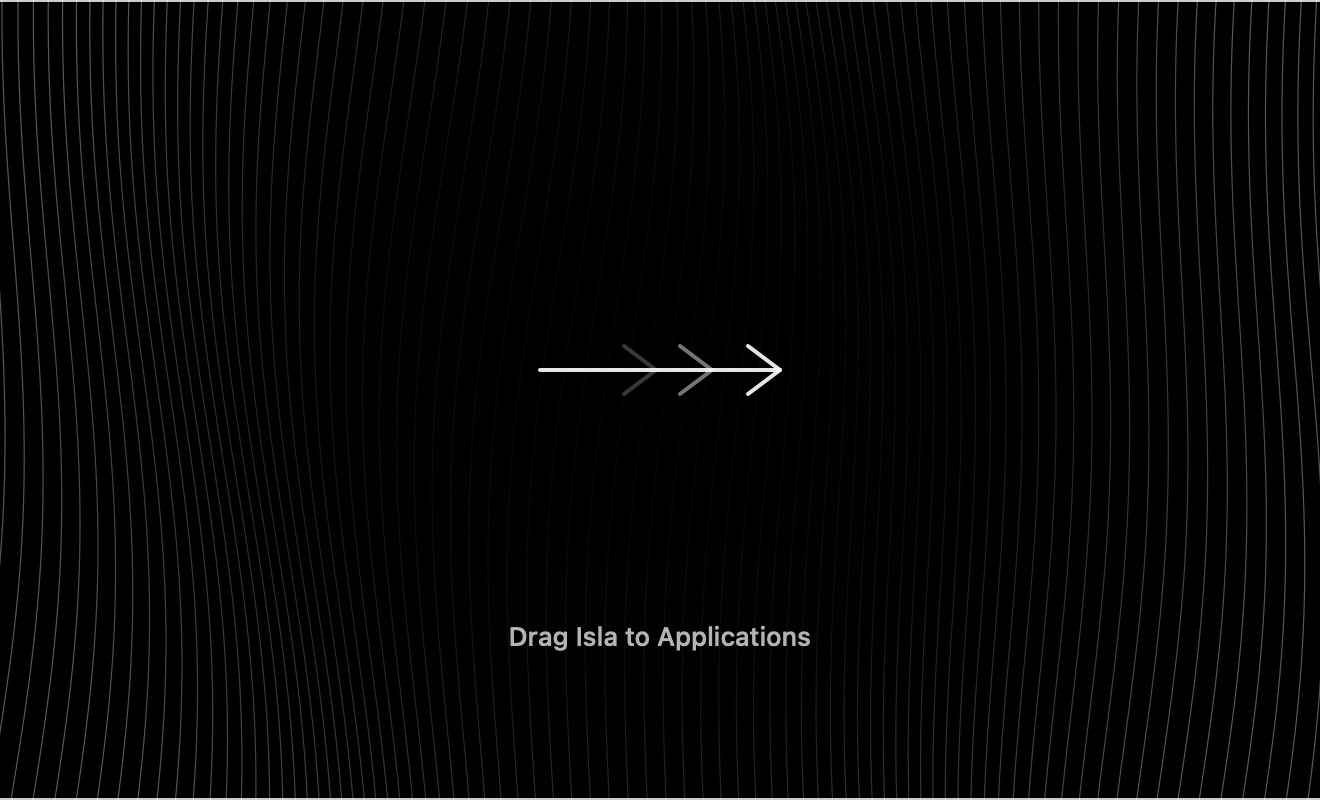
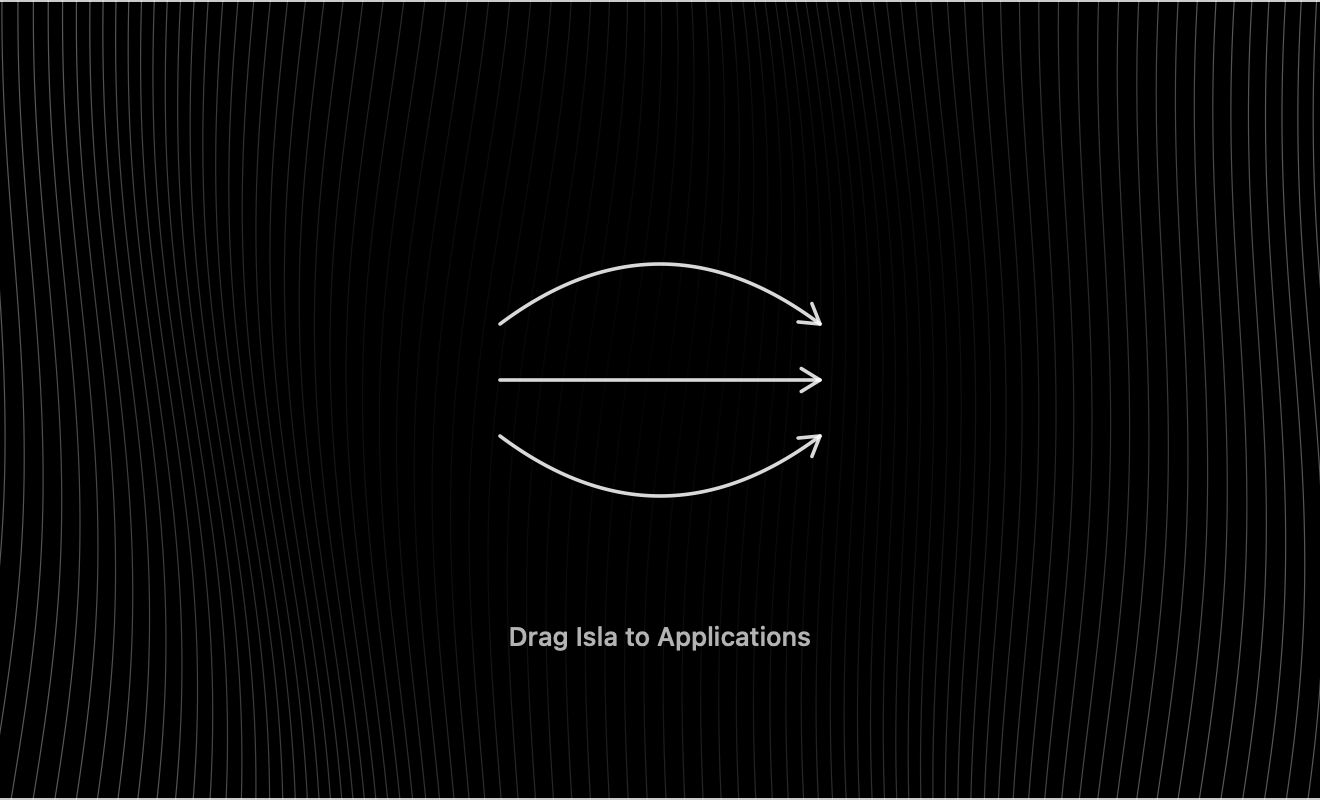
feat: three arrows lead the app to the folder
Owner's direction: one straight through the middle, one arcing over, one
arcing under, all leaving the app's edge and arriving at the folder's, each
head following its curve's tangent. The ghost-chevron trail is gone.

diff --git a/Scripts/dmg-background.swift b/Scripts/dmg-background.swift
@@ -57,25 +57,37 @@ ctx.setFillColor(CGColor(gray: 1, alpha: 0.8))
 ctx.fill(CGRect(x: 0, y: Double(h) - 1, width: Double(w), height: 1))
 ctx.fill(CGRect(x: 0, y: 0, width: Double(w), height: 1))
 
-// The arrow, between where dmgbuild places the two icons (165 and 495 on x).
-// Finder draws a still picture and nothing else, so the motion is drawn in:
-// two ghost chevrons trail the head, each fainter and further back, the way
-// a long exposure would show the drag the picture asks for.
-let ay = 215.0
-ctx.setLineWidth(2)
+// Three arrows from the app to the folder: one straight through the middle,
+// one arcing over, one arcing under. Finder draws a still picture and nothing
+// else, so the sense of movement comes from the three paths converging.
+// Icons sit at x 165 and 495 (centres, 128 pt), so the arrows run between
+// the app's right edge and the folder's left edge.
+let x0 = 250.0, x1 = 410.0, mid = 210.0
+ctx.setStrokeColor(CGColor(gray: 1, alpha: 0.85))
+ctx.setLineWidth(1.8)
 ctx.setLineCap(.round)
 ctx.setLineJoin(.round)
-func chevron(at x: Double, alpha: CGFloat) {
-    ctx.setStrokeColor(CGColor(gray: 1, alpha: alpha))
-    ctx.move(to: CGPoint(x: x - 16, y: ay + 12)); ctx.addLine(to: CGPoint(x: x, y: ay)); ctx.addLine(to: CGPoint(x: x - 16, y: ay - 12))
+func head(at tip: CGPoint, from dir: CGPoint) {
+    let len = hypot(dir.x, dir.y)
+    let ux = dir.x / len, uy = dir.y / len
+    let size = 11.0, spread = 0.55
+    let l = CGPoint(x: tip.x - size * (ux * cos(spread) - uy * sin(spread)), y: tip.y - size * (uy * cos(spread) + ux * sin(spread)))
+    let r = CGPoint(x: tip.x - size * (ux * cos(spread) + uy * sin(spread)), y: tip.y - size * (uy * cos(spread) - ux * sin(spread)))
+    ctx.move(to: l); ctx.addLine(to: tip); ctx.addLine(to: r)
     ctx.strokePath()
 }
-chevron(at: 328, alpha: 0.22)
-chevron(at: 356, alpha: 0.45)
-ctx.setStrokeColor(CGColor(gray: 1, alpha: 0.9))
-ctx.move(to: CGPoint(x: 270, y: ay)); ctx.addLine(to: CGPoint(x: 390, y: ay))
-ctx.strokePath()
-chevron(at: 390, alpha: 0.9)
+// Middle, straight.
+ctx.move(to: CGPoint(x: x0, y: mid)); ctx.addLine(to: CGPoint(x: x1, y: mid)); ctx.strokePath()
+head(at: CGPoint(x: x1, y: mid), from: CGPoint(x: 1, y: 0))
+// Over and under: quadratic arcs whose heads follow the curve's tangent,
+// which for a quadratic is the line from the control point to the end.
+for sign in [1.0, -1.0] {
+    let start = CGPoint(x: x0, y: mid + 28 * sign)
+    let control = CGPoint(x: (x0 + x1) / 2, y: mid + 88 * sign)
+    let end = CGPoint(x: x1, y: mid + 28 * sign)
+    ctx.move(to: start); ctx.addQuadCurve(to: end, control: control); ctx.strokePath()
+    head(at: end, from: CGPoint(x: end.x - control.x, y: end.y - control.y))
+}
 
 // The one line of copy.
 let paragraph = NSMutableParagraphStyle(); paragraph.alignment = .center
